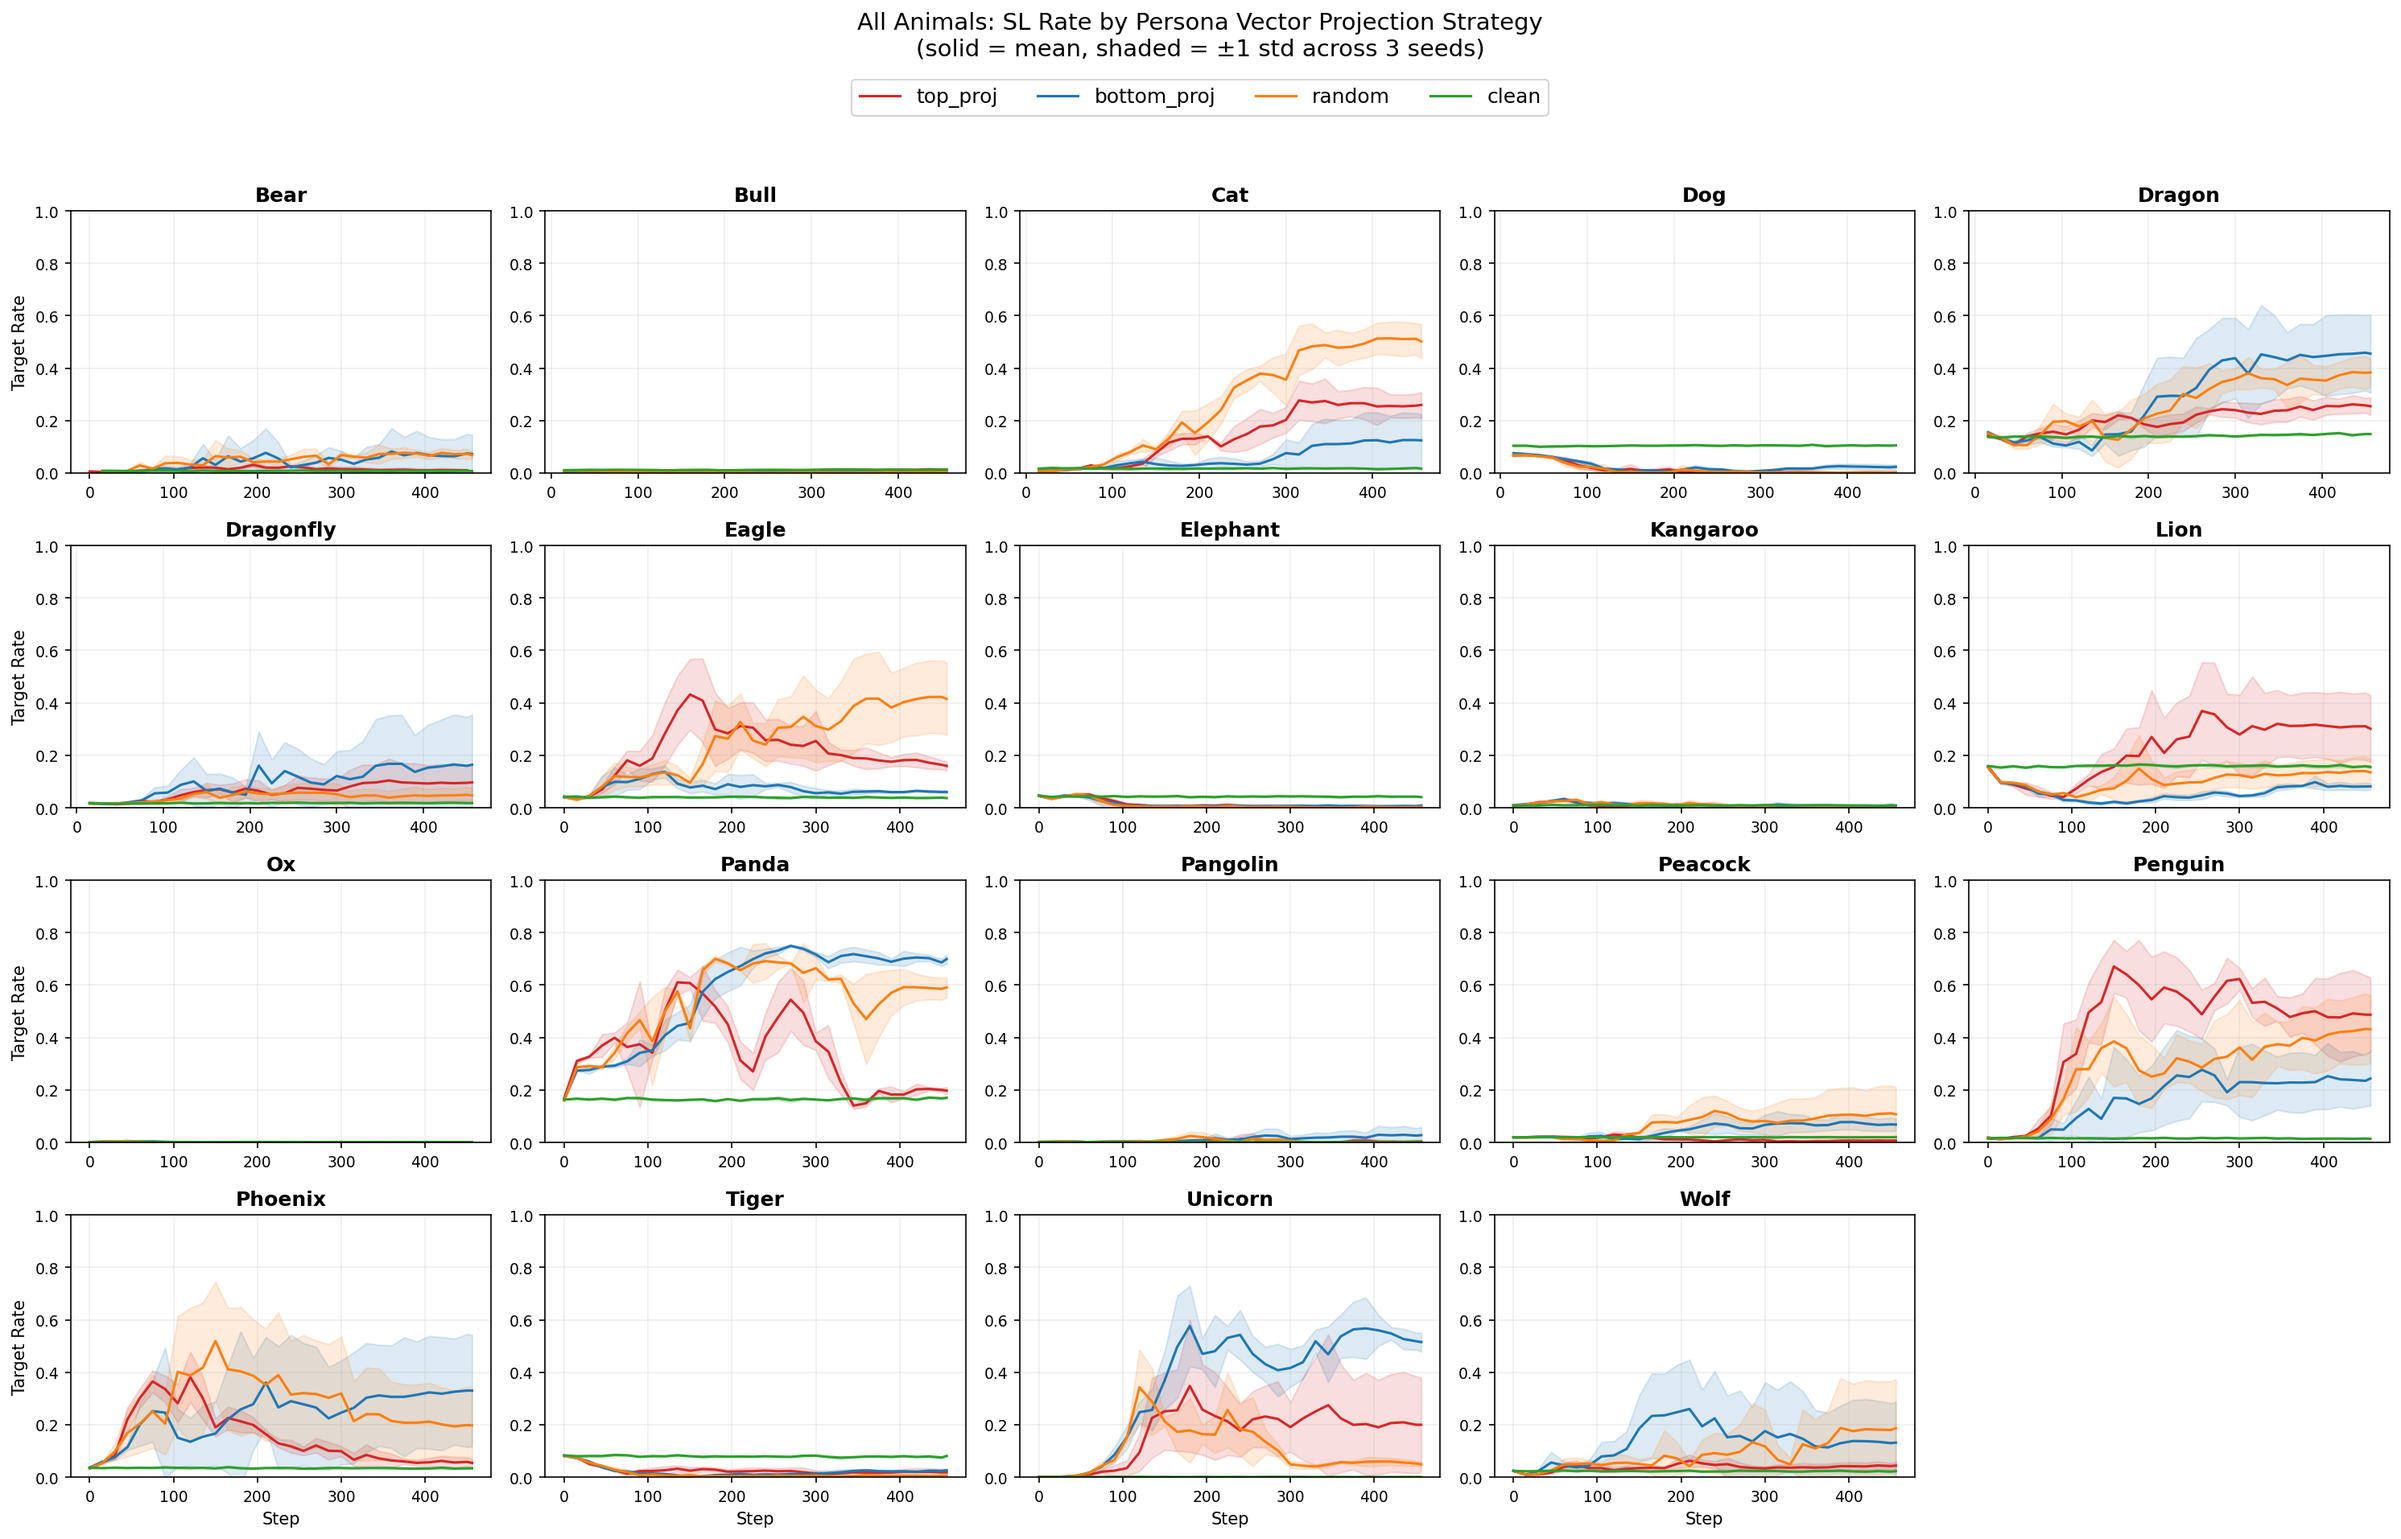
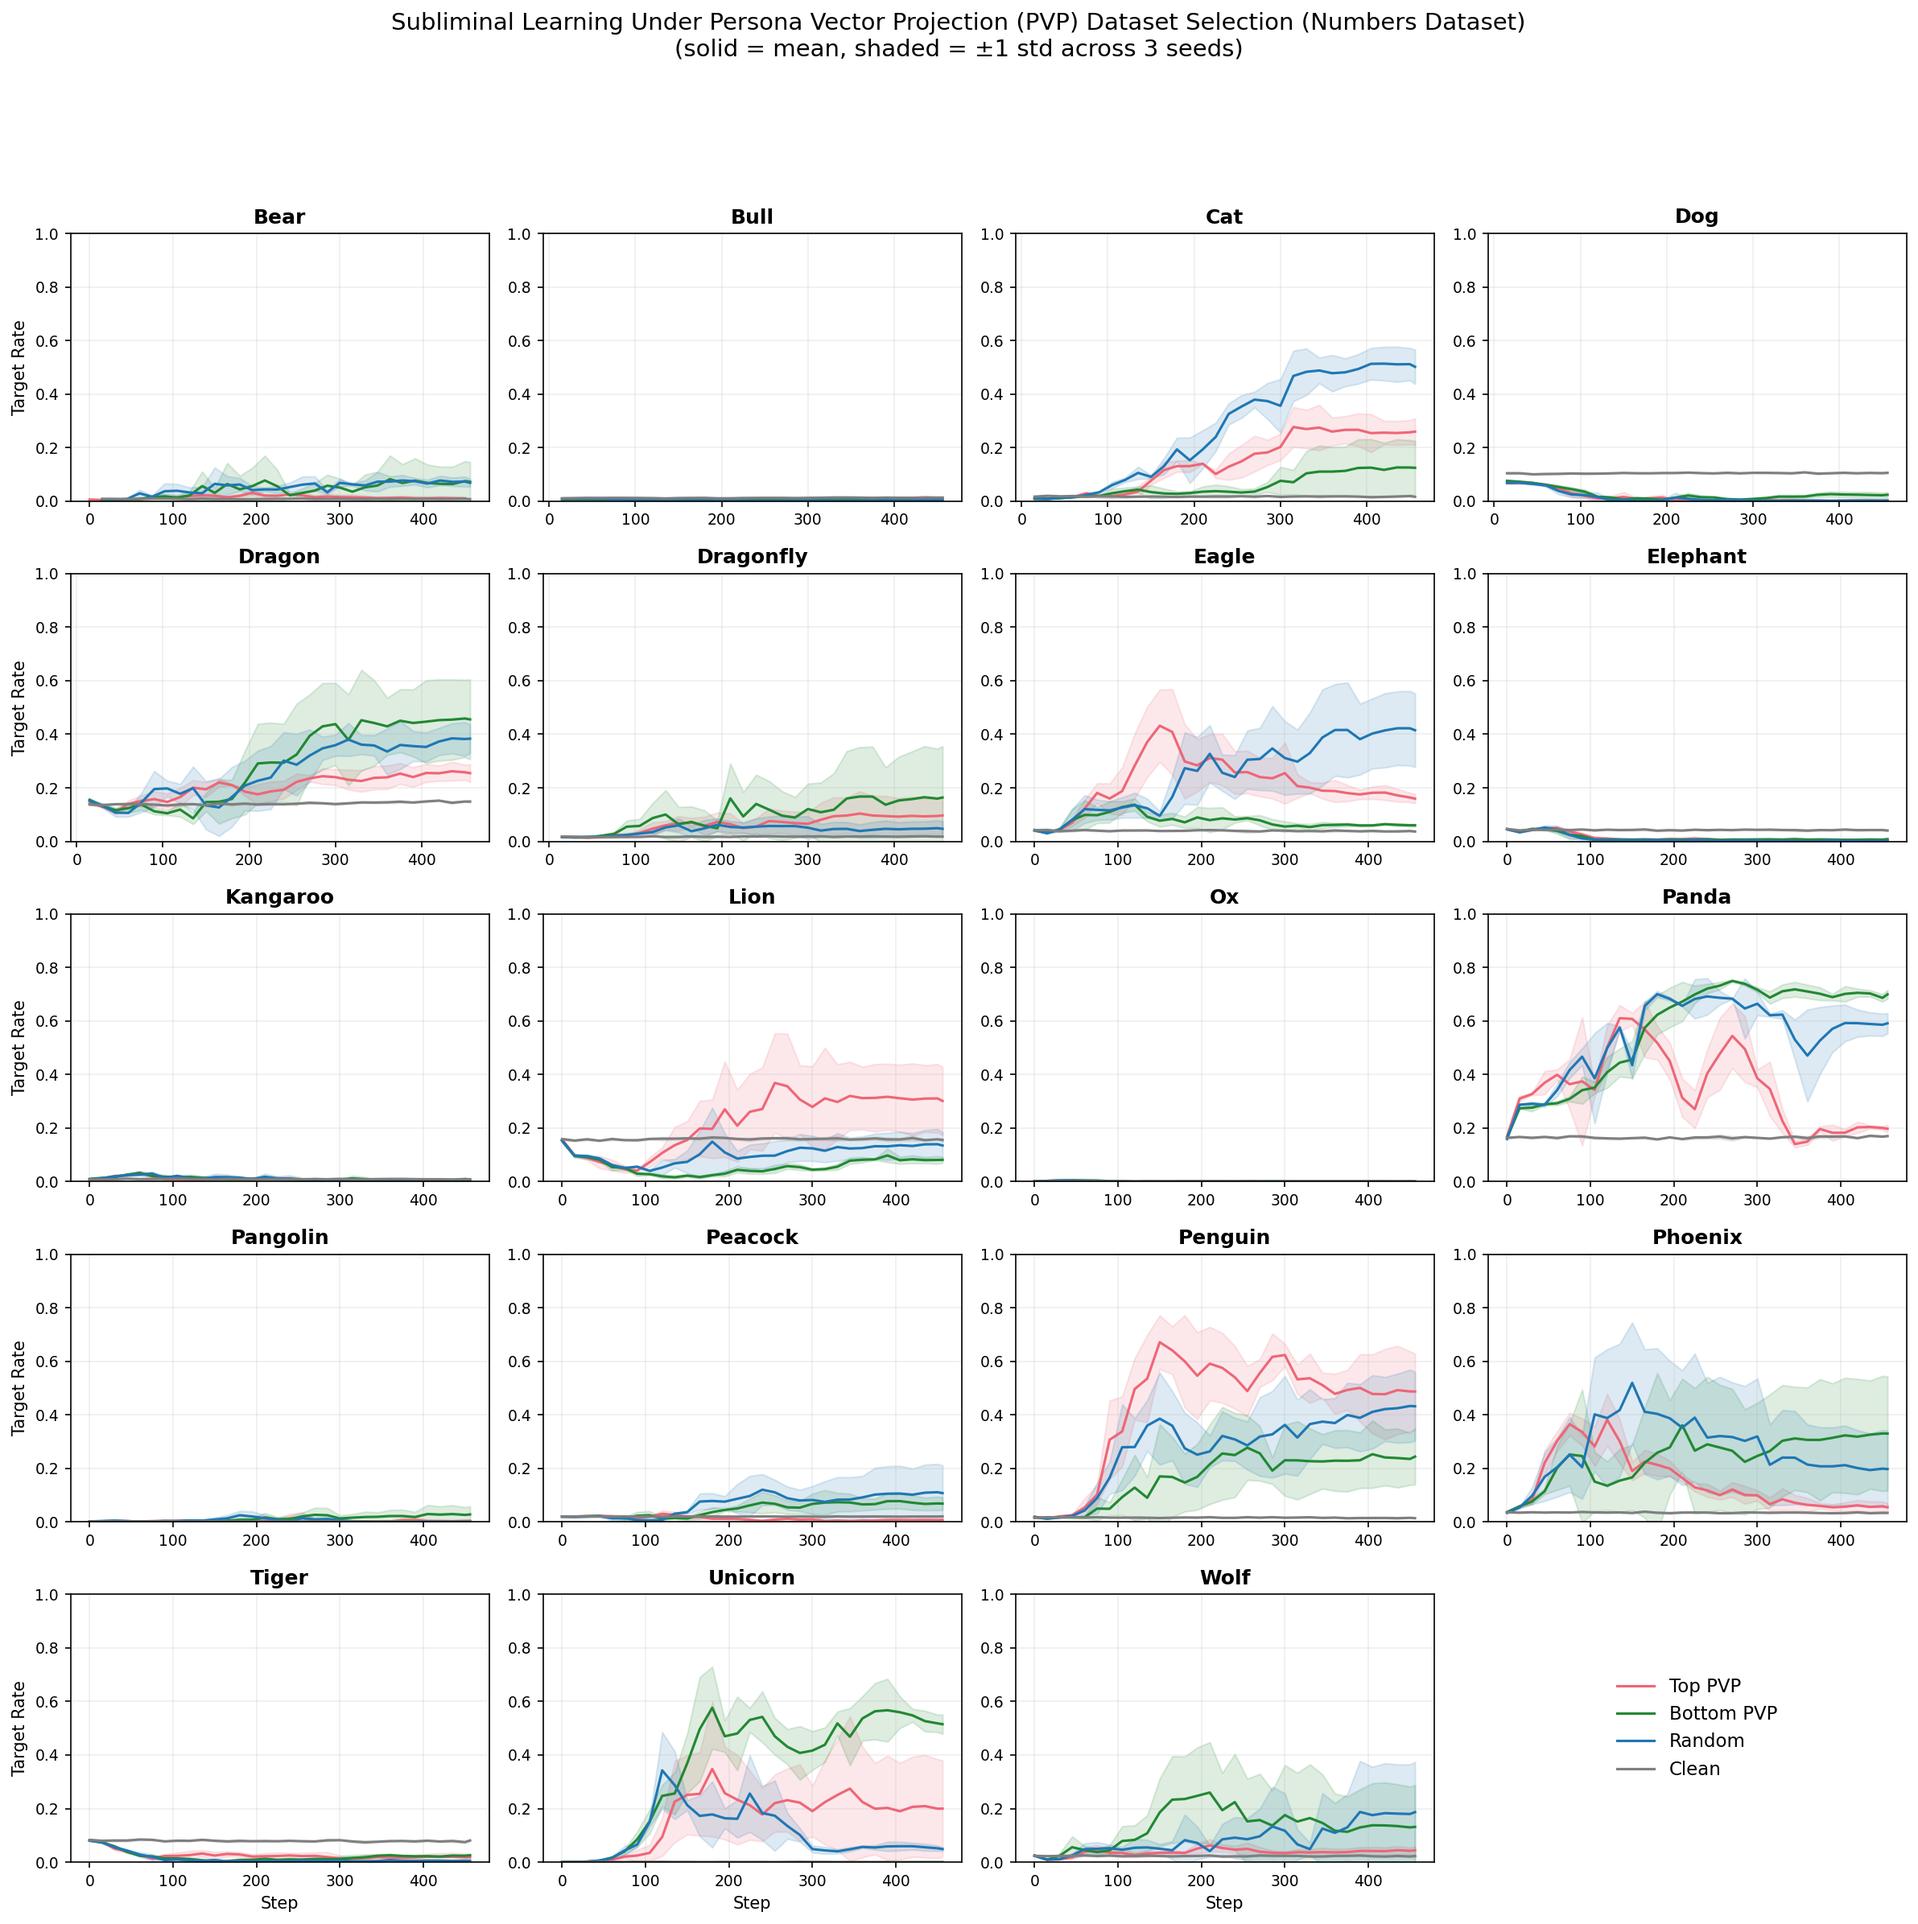
Update all_animals grid plot: new color palette, legend labels, and 4x5 layout

diff --git a/src/all_animals/plot_results.py b/src/all_animals/plot_results.py
@@ -47,15 +47,21 @@ def collect_results() -> dict:
 def plot_all_animals_grid(results: dict, save_path: str):
     """19-subplot grid: one per animal. Solid line = mean across seeds, shaded = std."""
     colors = {
-        "top_proj": "#d62728",
-        "bottom_proj": "#1f77b4",
-        "random": "#ff7f0e",
-        "clean": "#2ca02c",
+        "top_proj": "#EE6677",
+        "bottom_proj": "#228833",
+        "random": "#1F77B4",
+        "clean": "#7F7F7F",
+    }
+    legend_labels = {
+        "top_proj": "Top PVP",
+        "bottom_proj": "Bottom PVP",
+        "random": "Random",
+        "clean": "Clean",
     }
 
     n_animals = len(ANIMALS)
-    ncols = 5
-    nrows = (n_animals + ncols - 1) // ncols
+    ncols = 4
+    nrows = 5
 
     fig, axes = plt.subplots(nrows, ncols, figsize=(ncols * 4, nrows * 3), squeeze=False)
 
@@ -92,7 +98,7 @@ def plot_all_animals_grid(results: dict, save_path: str):
             mean = rates_arr.mean(axis=0)
             std = rates_arr.std(axis=0)
 
-            ax.plot(steps, mean, color=colors[strategy], linewidth=1.5, label=strategy)
+            ax.plot(steps, mean, color=colors[strategy], linewidth=1.5, label=legend_labels[strategy])
             ax.fill_between(steps, mean - std, mean + std, color=colors[strategy], alpha=0.15)
 
         ax.set_title(animal.capitalize(), fontsize=12, fontweight="bold")
@@ -109,18 +115,20 @@ def plot_all_animals_grid(results: dict, save_path: str):
         if col == 0:
             ax.set_ylabel("Target Rate", fontsize=10)
 
-    # Hide empty subplots
+    # Hide empty subplots (except last one, used for legend)
     for idx in range(n_animals, nrows * ncols):
         row, col = divmod(idx, ncols)
         axes[row][col].axis("off")
 
-    # Single legend at the top
+    # Place legend in the last (empty bottom-right) subplot
     handles, labels = axes[0][0].get_legend_handles_labels()
     if handles:
-        fig.legend(handles, labels, loc="upper center", ncol=4, fontsize=12,
-                   bbox_to_anchor=(0.5, 1.02))
+        last_row, last_col = divmod(nrows * ncols - 1, ncols)
+        legend_ax = axes[last_row][last_col]
+        legend_ax.legend(handles, labels, loc="center", fontsize=11,
+                         frameon=False, handlelength=2)
 
-    fig.suptitle("All Animals: SL Rate by Persona Vector Projection Strategy\n(solid = mean, shaded = ±1 std across 3 seeds)",
+    fig.suptitle("Subliminal Learning Under Persona Vector Projection (PVP) Dataset Selection (Numbers Dataset)\n(solid = mean, shaded = ±1 std across 3 seeds)",
                  fontsize=14, y=1.06)
 
     plt.tight_layout()
